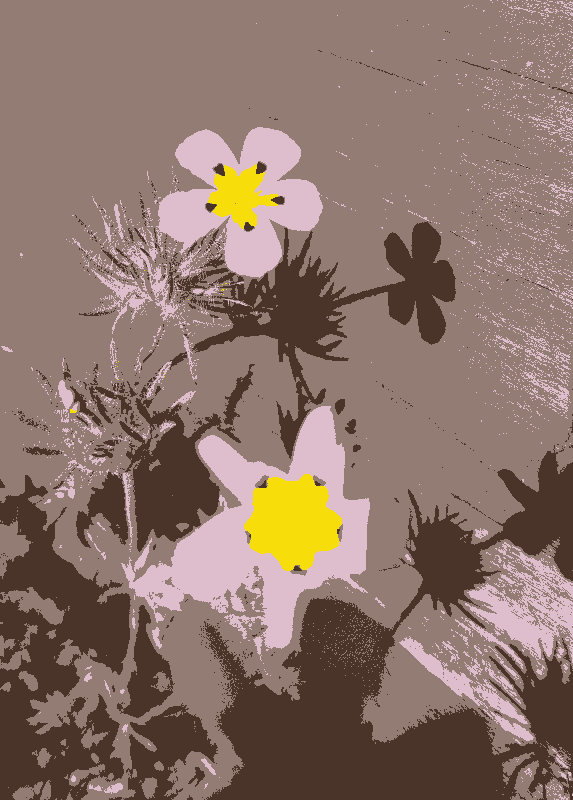
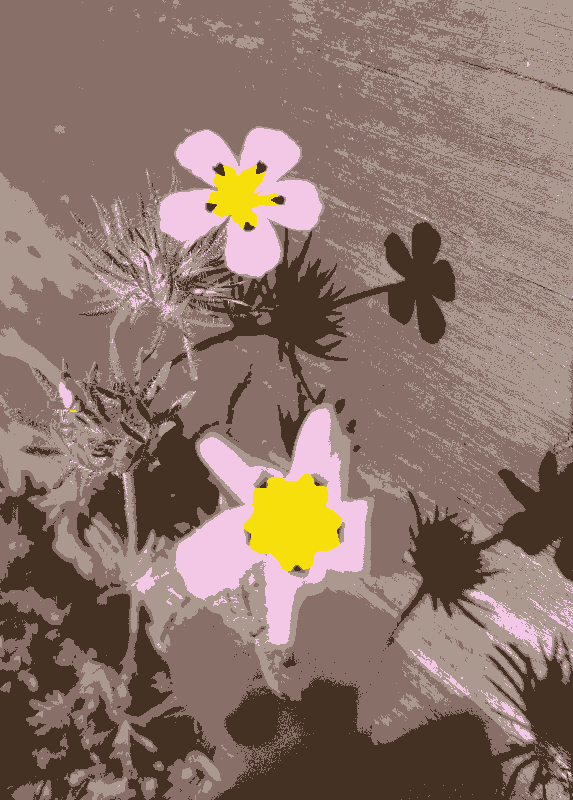
Last updates

diff --git a/Testing.py b/Testing.py
@@ -176,7 +176,7 @@ cv2.waitKey(0)
 ''' Task 9: k-means random seeds '''
 img = cv2.imread('images/flowers.png', cv2.IMREAD_COLOR)
 
-num_cluster = 4
+num_cluster = 5
 
 image_k = hw1.random_seed_image(img, num_cluster)
 
